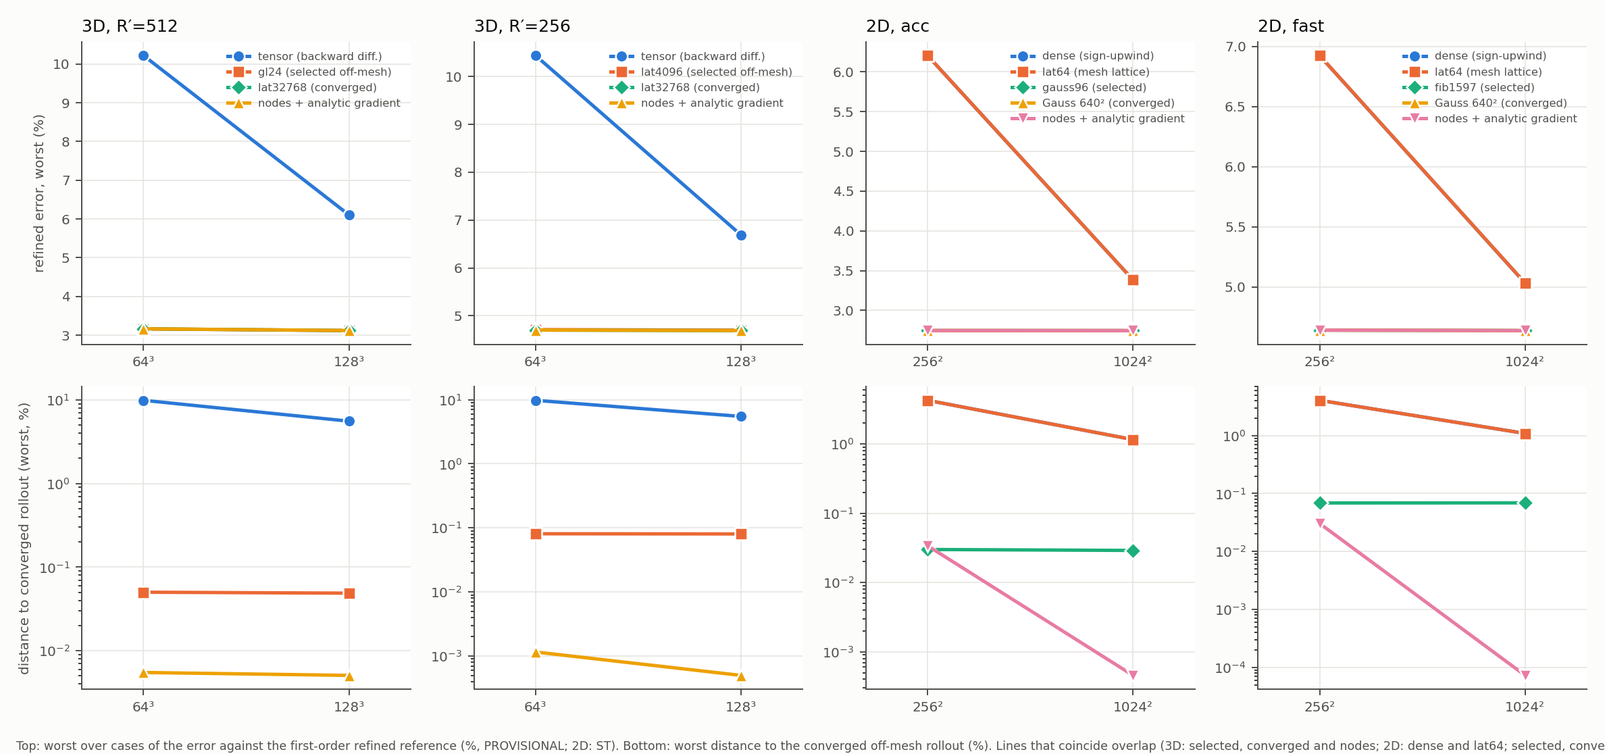
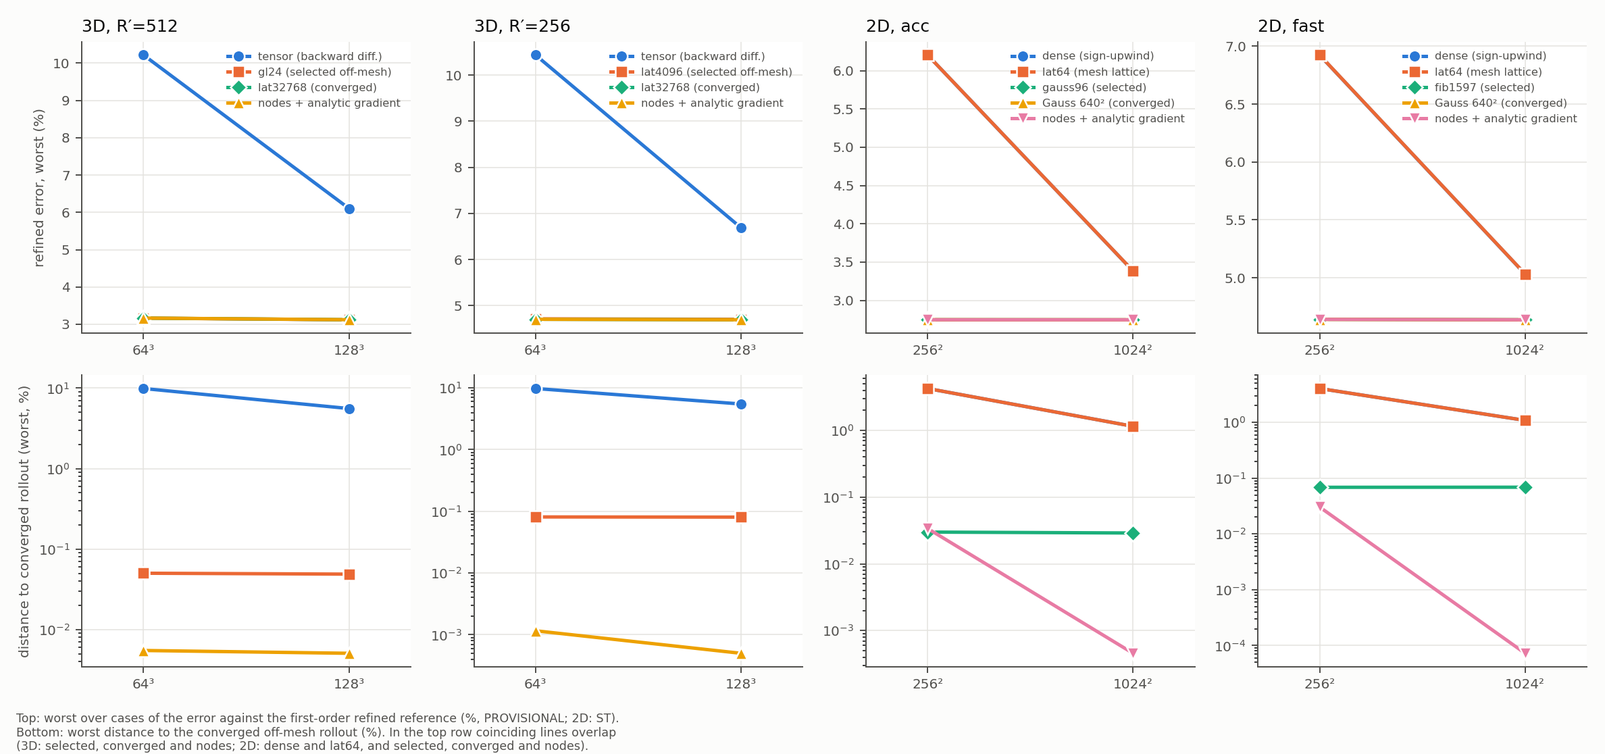
mirror of cce2cce5b: jcp-mechanism: report/plot audit fixes (S provisional, LaTeX, glossary, captions, scope sentences)

diff --git a/experiments/jcp-mechanism/make_report.py b/experiments/jcp-mechanism/make_report.py
@@ -162,9 +162,10 @@ def a2_plot(a2):
         style(ax)
         ax.legend(fontsize=7, frameon=False, labelcolor=INK2, loc='lower left')
     np.atleast_1d(axs)[0].set_ylabel('gap to continuum target (median over states)', color=INK2, fontsize=9)
-    fig.text(0.01, 0.005, 'Bands: 10th–90th percentile over the fixed states. Dashed: manufactured control state.',
-             color=INK2, fontsize=7)
-    fig.tight_layout(rect=(0, 0.03, 1, 1))
+    fig.text(0.01, 0.005, 'Bands: 10th–90th percentile over the fixed states. Dashed: C-pos manufactured state (upwind, central). '
+             'Slopes fitted on the pre-registered window only (the coarsest mesh is excluded); the nodes curve is '
+             'not a fit.', color=INK2, fontsize=7)
+    fig.tight_layout(rect=(0, 0.05, 1, 1))
     PLOTS.mkdir(exist_ok=True)
     fig.savefig(PLOTS / 'a2_gap_vs_h.png', dpi=180, facecolor='#fcfcfb')
     plt.close(fig)
@@ -388,11 +389,11 @@ def a1_plot(r3, r2):
                 ax.set_ylabel(yl, color=INK2, fontsize=8)
         axs[0, j].set_title(t1, color=INK, fontsize=10, loc='left')
         axs[0, j].legend(fontsize=6.5, frameon=False, labelcolor=INK2)
-    fig.text(0.01, 0.005, 'Top: worst over cases of the error against the first-order refined reference (%, PROVISIONAL; 2D: ST). '
-             'Bottom: worst distance to the converged off-mesh rollout (%). Lines that coincide overlap '
-             '(3D: selected, converged and nodes; 2D: dense and lat64; selected, converged and nodes).',
+    fig.text(0.01, 0.005, 'Top: worst over cases of the error against the first-order refined reference (%, PROVISIONAL; 2D: ST).\n'
+             'Bottom: worst distance to the converged off-mesh rollout (%). In the top row coinciding lines overlap\n'
+             '(3D: selected, converged and nodes; 2D: dense and lat64, and selected, converged and nodes).',
              color=INK2, fontsize=7)
-    fig.tight_layout(rect=(0, 0.03, 1, 1))
+    fig.tight_layout(rect=(0, 0.06, 1, 1))
     PLOTS.mkdir(exist_ok=True)
     fig.savefig(PLOTS / 'a1_error_vs_mesh.png', dpi=180, facecolor='#fcfcfb')
     plt.close(fig)
@@ -412,8 +413,8 @@ def label_text(l):
             t += f"; provisional (solver): {l['provisional_solver']}"
         t += ')'
     if l.get('worst_separation') is not None:
-        t += (f" (descriptive, not a label: worst separation {pc(l['worst_separation'], 3)}, worst `nodes` distance to the "
-              f"converged rollout {pc(l['worst_nodes_distance'], 3)})") if l['label'] not in ('R', 'N') else ''
+        t += (f" (descriptive, not a label: worst separation {pe(l['worst_separation'])}, worst `nodes` distance to the "
+              f"converged rollout {pe(l['worst_nodes_distance'])})") if l['label'] not in ('R', 'N') else ''
     if l.get('why'):
         t += f" [{l['why']}]"
     if l.get('missing_cases'):
@@ -515,9 +516,9 @@ def main():
       'the mesh nodes but uses the bank\'s analytic gradient (`nodes`), run beside the mesh incumbents and the off-mesh rules; '
       'and **A2**, the consistency gap of first-order upwind and second-order central mesh sums against the continuum '
       'advection as the mesh is refined. **Status: PRELIMINARY** (2026-10-08; validation/development cohorts only; every '
-      'error against a refined reference is **PROVISIONAL** because the references are first-order solutions). Every number '
+      'error against a refined reference is **PROVISIONAL** because the references are first-order solutions). Every reported measured result '
       'is generated by `experiments/jcp-mechanism/make_report.py` from the job outputs; the pre-registration is `DESIGN.md` '
-      '(amendments 1–6). Recovered fractions printed as 1.000 are rounded, not exact. A3 and A4 are deferred (DESIGN §8).')
+      '(amendments 1–6). Recovered fractions printed as 1.000 are rounded, not exact. A3 and A4 are deferred (DESIGN §8). Protocol constants (bars, meshes, cohorts) come from `DESIGN.md`.')
     w('')
     for pn in plot_notes:
         w(f'> {pn}')
@@ -530,6 +531,9 @@ def main():
         w('1. **A1 — does the exact gradient on the mesh nodes reproduce the off-mesh (continuum) solve?** Outcome labels '
           '(DESIGN amendment 2: R = `nodes` recovers the converged off-mesh rollout within the declared margins; '
           'N = it does not; X = intermediate or invalid; X0 = nothing to explain): ' + '; '.join(parts) + '.')
+        w('   Scope: an R label supports only the sufficiency statement that the mesh nodes with the analytic gradient reach '
+          'the converged off-mesh rollout within the declared margins, so off-mesh point placement is not needed for the '
+          'accuracy observed; it does not show that point placement or the training data play no role elsewhere.')
     else:
         w('1. **A1:** no job output yet.')
     if a2:
@@ -548,7 +552,8 @@ def main():
               f"{p['dim']} {p['group']} {e(p['stencils']['nodes']['median'][-1])} (central {e(p['stencils']['central']['median'][-1])}, "
               f"upwind {e(p['stencils']['upwind']['median'][-1])})" for p in a2['panels'])
           + '; on the manufactured state, where it is resolved, the `nodes` slope is ' + ', '.join(
-              f"{d} {c['slope_nodes']:.2f}" for d, c in a2['controls'].items()) + ' (not a pre-registered bar).')
+              f"{d} {c['slope_nodes']:.2f}" for d, c in a2['controls'].items()) + ' (not a pre-registered bar). All slopes are finite-window observations on fixed reached states, not established '
+          'asymptotic rates.')
     w('')
     # ---------------------------------------------------------------- A1 3D
     w('## 1. A1 in 3D (Burgers 3D, validation cohort 923801 × 64)')
@@ -635,7 +640,7 @@ def main():
             w(f"**{s}** ($R'$ = {r['setup'][s]['R_prime']}, M = {r['setup'][s]['M']}); $\\rho$ on {rh['states'] if rh else 'n/a'} "
               'lat64-reached states.')
             w('')
-            w('| arm | m | ρ cont. worst (median) | ρ mesh worst | ST worst (median), PROVISIONAL | S worst | '
+            w('| arm | m | ρ cont. worst (median) | ρ mesh worst | ST worst (median), PROVISIONAL | S worst, PROVISIONAL | '
               'dist. converged worst (median) | dist. dense worst | LM its (median) | budget / damping exits |')
             w('|---|---|---|---|---|---|---|---|---|---|')
             for spec in r['config']['arms'][s]:
@@ -775,7 +780,7 @@ GLOSSARY = [
     ('continuum target / mesh target', 'the tested continuum advection by a very fine Gauss rule (3D 80³, 2D 640²) / the '
      'sign-upwind stencil on every mesh node.'),
     ('refined error (PROVISIONAL)', 'evolved-time maximum relative field error against a first-order full-order reference '
-     'on a finer mesh (3D: 513 nodes per axis, on the 63³ lattice x = k/64; 2D: 8192², ST = with a 16× smaller time '
+     'on a finer mesh (3D: 513 nodes per axis, on the $63^3$ lattice $x = k/64$; 2D: $8192^2$, ST = with a 16× smaller time '
      'step, S = same time step), normalised by the initial field.'),
     ('same-grid', 'error against a tightly converged full-order solution on the same mesh.'),
     ('dist. converged / tensor / dense', 'evolved-time maximum field distance between two reduced rollouts of the same case, '
@@ -794,9 +799,26 @@ GLOSSARY = [
     ('R′, M, m', 'number of bank columns in the solve; number of sine test functions; number of quadrature points.'),
     ('fixed states', 'reached coefficient states held fixed while only the mesh changes, so the gap depends on h alone.'),
     ('screened population', 'states whose gap exceeds 100× their own continuum-target check and $10^{-12}$ at every window mesh.'),
-    ('slope (median state)', 'least-squares slope of log(median gap) against log h over the window; 1 = first order, 2 = second.'),
+    ('slope (median state)', 'least-squares slope of $\\log(\\text{median gap})$ against $\\log h$ over the window; 1 = first order, 2 = second.'),
     ('manufactured state / C-pos / C-neg-a', 'a known smooth positive field used as a control: its slopes and its gap '
      'against the predicted leading error term must come out right (C-pos); an injected constant 1 % error must give slope 0 (C-neg-a).'),
+    ('slope (worst state) / median per-state slope', 'the same fit on the largest gap over states / the median of the slopes '
+     'fitted state by state.'),
+    ('bar / consistent', 'the pre-registered interval for the median-state slope (upwind 0.8–1.2, central 1.7–2.3) / whether '
+     'the fitted slope lies in it.'),
+    ('25 % survival', 'a slope is fitted only if at least a quarter of the states pass the screen at every window mesh; '
+     'otherwise it is reported as unresolved.'),
+    ('leading norms / leading-term agreement', 'size of the predicted first error term of each stencil relative to the target, '
+     'and the relative difference between the measured gap and that predicted term at the finest window mesh.'),
+    ('central×1.01', 'the central stencil multiplied by 1.01: a deliberately inconsistent variant shown for comparison.'),
+    ('$n$, $L$, $h$', '3D mesh nodes per axis including walls ($h = 1/(n-1)$); 2D intervals per axis ($h = 1/L$); mesh spacing.'),
+    ('LM its', 'Levenberg–Marquardt iterations summed over the time steps of one query (median over cases).'),
+    ('acc / fast', 'the two 2D linear settings: 384 bank columns with 1536 tests, and 128 columns with 512 tests.'),
+    ('bank / tests', 'the frozen coordinate network whose ordered columns span the reduced solution / the sine functions '
+     'against which the residual is measured.'),
+    ('gates G1–G4', 'implementation checks: analytic derivative vs finite differences (G1); `nodes` blocks equal the mesh '
+     'bank and the discrete sines, and the two ways of applying the tests agree (G2a–c); analytic Jacobian vs automatic '
+     'differentiation (G3); reproduction of the earlier lanes (G4, report-only).'),
     ('validation / dev cohorts', '3D: 64 validation cases (seed 923801) and 24 certification draws; 2D: dev6 and val32.'),
 ]
 

diff --git a/experiments/jcp-mechanism/report.md b/experiments/jcp-mechanism/report.md
@@ -1,11 +1,12 @@
 # Mechanism of the off-mesh gain: mesh nodes with the exact gradient (A1) and the stencil gap (A2)
 
-This report covers the two Group A experiments of the lane `jcp-mechanism`: **A1**, a reduced-solve arm that keeps the mesh nodes but uses the bank's analytic gradient (`nodes`), run beside the mesh incumbents and the off-mesh rules; and **A2**, the consistency gap of first-order upwind and second-order central mesh sums against the continuum advection as the mesh is refined. **Status: PRELIMINARY** (2026-10-08; validation/development cohorts only; every error against a refined reference is **PROVISIONAL** because the references are first-order solutions). Every number is generated by `experiments/jcp-mechanism/make_report.py` from the job outputs; the pre-registration is `DESIGN.md` (amendments 1–6). Recovered fractions printed as 1.000 are rounded, not exact. A3 and A4 are deferred (DESIGN §8).
+This report covers the two Group A experiments of the lane `jcp-mechanism`: **A1**, a reduced-solve arm that keeps the mesh nodes but uses the bank's analytic gradient (`nodes`), run beside the mesh incumbents and the off-mesh rules; and **A2**, the consistency gap of first-order upwind and second-order central mesh sums against the continuum advection as the mesh is refined. **Status: PRELIMINARY** (2026-10-08; validation/development cohorts only; every error against a refined reference is **PROVISIONAL** because the references are first-order solutions). Every reported measured result is generated by `experiments/jcp-mechanism/make_report.py` from the job outputs; the pre-registration is `DESIGN.md` (amendments 1–6). Recovered fractions printed as 1.000 are rounded, not exact. A3 and A4 are deferred (DESIGN §8). Protocol constants (bars, meshes, cohorts) come from `DESIGN.md`.
 
 ## Answers
 
-1. **A1 — does the exact gradient on the mesh nodes reproduce the off-mesh (continuum) solve?** Outcome labels (DESIGN amendment 2: R = `nodes` recovers the converged off-mesh rollout within the declared margins; N = it does not; X = intermediate or invalid; X0 = nothing to explain): 3D 64³ R′=256: **R** (median recovered fraction 1.000, bootstrap bound 1.000, median separation 3.53 %); 3D 64³ R′=512: **R** (median recovered fraction 1.000, bootstrap bound 1.000, median separation 3.53 %); 3D 128³ R′=256: **R** (median recovered fraction 1.000, bootstrap bound 1.000, median separation 1.85 %; provisional (solver): no sensitivity rerun at this mesh); 3D 128³ R′=512: **R** (median recovered fraction 1.000, bootstrap bound 1.000, median separation 1.85 %; provisional (solver): no sensitivity rerun at this mesh); 2D 256² acc: **X0** (descriptive, not a label: worst separation 4.258 %, worst `nodes` distance to the converged rollout 0.034 %) [median separation below 1e-2]; 2D 256² fast: **X0** (descriptive, not a label: worst separation 4.053 %, worst `nodes` distance to the converged rollout 0.030 %) [median separation below 1e-2]; 2D 1024² acc: **X0** (descriptive, not a label: worst separation 1.154 %, worst `nodes` distance to the converged rollout 0.000 %) [median separation below 1e-2]; 2D 1024² fast: **X0** (descriptive, not a label: worst separation 1.087 %, worst `nodes` distance to the converged rollout 0.000 %) [median separation below 1e-2].
-2. **A2 — stencil gap slopes** (median-state statistic over the pre-registered window): 3D R512: upwind 0.99, central 2.00, nodes unresolved; 3D R256: upwind 0.99, central 2.00, nodes unresolved; 2D acc: upwind 1.00, central 2.00, nodes unresolved; 2D fast: upwind 1.00, central 2.00, nodes unresolved. Upwind ≈ 1 and central ≈ 2 on every panel: **yes** (controls passed). The `nodes` slope is unresolved by the pre-registered screen because its gap reaches the continuum-target check level; descriptively, at the finest window mesh its median gap is 3D R512 1.5e-08 (central 3.4e-04, upwind 3.5e-02); 3D R256 1.1e-08 (central 3.3e-04, upwind 3.5e-02); 2D acc 1.4e-10 (central 2.0e-06, upwind 2.2e-03); 2D fast 2.2e-10 (central 2.0e-06, upwind 2.2e-03); on the manufactured state, where it is resolved, the `nodes` slope is 3D 4.02, 2D 4.00 (not a pre-registered bar).
+1. **A1 — does the exact gradient on the mesh nodes reproduce the off-mesh (continuum) solve?** Outcome labels (DESIGN amendment 2: R = `nodes` recovers the converged off-mesh rollout within the declared margins; N = it does not; X = intermediate or invalid; X0 = nothing to explain): 3D 64³ R′=256: **R** (median recovered fraction 1.000, bootstrap bound 1.000, median separation 3.53 %); 3D 64³ R′=512: **R** (median recovered fraction 1.000, bootstrap bound 1.000, median separation 3.53 %); 3D 128³ R′=256: **R** (median recovered fraction 1.000, bootstrap bound 1.000, median separation 1.85 %; provisional (solver): no sensitivity rerun at this mesh); 3D 128³ R′=512: **R** (median recovered fraction 1.000, bootstrap bound 1.000, median separation 1.85 %; provisional (solver): no sensitivity rerun at this mesh); 2D 256² acc: **X0** (descriptive, not a label: worst separation 4.26e+00 %, worst `nodes` distance to the converged rollout 3.39e-02 %) [median separation below 1e-2]; 2D 256² fast: **X0** (descriptive, not a label: worst separation 4.05e+00 %, worst `nodes` distance to the converged rollout 3.04e-02 %) [median separation below 1e-2]; 2D 1024² acc: **X0** (descriptive, not a label: worst separation 1.15e+00 %, worst `nodes` distance to the converged rollout 4.56e-04 %) [median separation below 1e-2]; 2D 1024² fast: **X0** (descriptive, not a label: worst separation 1.09e+00 %, worst `nodes` distance to the converged rollout 7.27e-05 %) [median separation below 1e-2].
+   Scope: an R label supports only the sufficiency statement that the mesh nodes with the analytic gradient reach the converged off-mesh rollout within the declared margins, so off-mesh point placement is not needed for the accuracy observed; it does not show that point placement or the training data play no role elsewhere.
+2. **A2 — stencil gap slopes** (median-state statistic over the pre-registered window): 3D R512: upwind 0.99, central 2.00, nodes unresolved; 3D R256: upwind 0.99, central 2.00, nodes unresolved; 2D acc: upwind 1.00, central 2.00, nodes unresolved; 2D fast: upwind 1.00, central 2.00, nodes unresolved. Upwind ≈ 1 and central ≈ 2 on every panel: **yes** (controls passed). The `nodes` slope is unresolved by the pre-registered screen because its gap reaches the continuum-target check level; descriptively, at the finest window mesh its median gap is 3D R512 1.5e-08 (central 3.4e-04, upwind 3.5e-02); 3D R256 1.1e-08 (central 3.3e-04, upwind 3.5e-02); 2D acc 1.4e-10 (central 2.0e-06, upwind 2.2e-03); 2D fast 2.2e-10 (central 2.0e-06, upwind 2.2e-03); on the manufactured state, where it is resolved, the `nodes` slope is 3D 4.02, 2D 4.00 (not a pre-registered bar). All slopes are finite-window observations on fixed reached states, not established asymptotic rates.
 
 ## 1. A1 in 3D (Burgers 3D, validation cohort 923801 × 64)
 
@@ -98,7 +99,7 @@ Nodes gates: nodes_acc: G1_fd_err_h1e-5 2.7e-06, G1_fd_err_h1e-6 2.7e-08, G1_fd_
 
 **acc** ($R'$ = 384, M = 1536); $\rho$ on 1900 lat64-reached states.
 
-| arm | m | ρ cont. worst (median) | ρ mesh worst | ST worst (median), PROVISIONAL | S worst | dist. converged worst (median) | dist. dense worst | LM its (median) | budget / damping exits |
+| arm | m | ρ cont. worst (median) | ρ mesh worst | ST worst (median), PROVISIONAL | S worst, PROVISIONAL | dist. converged worst (median) | dist. dense worst | LM its (median) | budget / damping exits |
 |---|---|---|---|---|---|---|---|---|---|
 | `dense` | 65025 | 1.2e-01 (3.3e-02) | 0.0e+00 | 6.21 % (1.25 %) | 4.16 % | 4.26e+00 % (8.83e-01 %) | – | 54 | 0 / 0 |
 | `lat64` | 3969 | 1.4e-01 (3.3e-02) | 8.6e-02 | 6.21 % (1.25 %) | 4.16 % | 4.26e+00 % (8.83e-01 %) | 0.133 % | 54 | 0 / 0 |
@@ -110,7 +111,7 @@ $\rho$ on 400 `nodes`-reached states (first 8 cases; check 3.3e-08): `dense` 8.3
 
 **fast** ($R'$ = 128, M = 512); $\rho$ on 1900 lat64-reached states.
 
-| arm | m | ρ cont. worst (median) | ρ mesh worst | ST worst (median), PROVISIONAL | S worst | dist. converged worst (median) | dist. dense worst | LM its (median) | budget / damping exits |
+| arm | m | ρ cont. worst (median) | ρ mesh worst | ST worst (median), PROVISIONAL | S worst, PROVISIONAL | dist. converged worst (median) | dist. dense worst | LM its (median) | budget / damping exits |
 |---|---|---|---|---|---|---|---|---|---|
 | `dense` | 65025 | 1.2e-01 (3.3e-02) | 0.0e+00 | 6.92 % (1.29 %) | 4.97 % | 4.05e+00 % (8.83e-01 %) | – | 51 | 0 / 0 |
 | `lat64` | 3969 | 1.3e-01 (3.3e-02) | 9.0e-02 | 6.92 % (1.29 %) | 4.97 % | 4.05e+00 % (8.83e-01 %) | 0.117 % | 51 | 0 / 0 |
@@ -126,7 +127,7 @@ Nodes gates: nodes_acc: G1_fd_err_h1e-5 9.5e-05, G1_fd_err_h1e-6 9.5e-07, G1_fd_
 
 **acc** ($R'$ = 384, M = 1536); $\rho$ on 1900 lat64-reached states.
 
-| arm | m | ρ cont. worst (median) | ρ mesh worst | ST worst (median), PROVISIONAL | S worst | dist. converged worst (median) | dist. dense worst | LM its (median) | budget / damping exits |
+| arm | m | ρ cont. worst (median) | ρ mesh worst | ST worst (median), PROVISIONAL | S worst, PROVISIONAL | dist. converged worst (median) | dist. dense worst | LM its (median) | budget / damping exits |
 |---|---|---|---|---|---|---|---|---|---|
 | `dense` | 1046529 | 3.5e-02 (8.3e-03) | 0.0e+00 | 3.38 % (0.98 %) | 1.34 % | 1.15e+00 % (2.25e-01 %) | – | 55 | 0 / 0 |
 | `lat64` | 3969 | 7.1e-02 (8.3e-03) | 5.4e-02 | 3.38 % (0.98 %) | 1.35 % | 1.15e+00 % (2.25e-01 %) | 0.262 % | 54 | 0 / 0 |
@@ -138,7 +139,7 @@ $\rho$ on 400 `nodes`-reached states (first 8 cases; check 4.1e-08): `dense` 1.8
 
 **fast** ($R'$ = 128, M = 512); $\rho$ on 1900 lat64-reached states.
 
-| arm | m | ρ cont. worst (median) | ρ mesh worst | ST worst (median), PROVISIONAL | S worst | dist. converged worst (median) | dist. dense worst | LM its (median) | budget / damping exits |
+| arm | m | ρ cont. worst (median) | ρ mesh worst | ST worst (median), PROVISIONAL | S worst, PROVISIONAL | dist. converged worst (median) | dist. dense worst | LM its (median) | budget / damping exits |
 |---|---|---|---|---|---|---|---|---|---|
 | `dense` | 1046529 | 3.4e-02 (8.3e-03) | 0.0e+00 | 5.03 % (1.04 %) | 3.48 % | 1.09e+00 % (2.25e-01 %) | – | 51 | 0 / 0 |
 | `lat64` | 3969 | 4.9e-02 (8.3e-03) | 4.6e-02 | 5.03 % (1.04 %) | 3.48 % | 1.09e+00 % (2.25e-01 %) | 0.132 % | 51 | 0 / 0 |
@@ -236,7 +237,7 @@ Own-mesh states (context, not fitted), median gap upwind / central / nodes: 256:
 - **upwind / central**: first-order sign-upwind differences (the full-order model's) and second-order central differences.
 - **ρ**: relative error of a rule's tested advection vector against a target on a given state.
 - **continuum target / mesh target**: the tested continuum advection by a very fine Gauss rule (3D 80³, 2D 640²) / the sign-upwind stencil on every mesh node.
-- **refined error (PROVISIONAL)**: evolved-time maximum relative field error against a first-order full-order reference on a finer mesh (3D: 513 nodes per axis, on the 63³ lattice x = k/64; 2D: 8192², ST = with a 16× smaller time step, S = same time step), normalised by the initial field.
+- **refined error (PROVISIONAL)**: evolved-time maximum relative field error against a first-order full-order reference on a finer mesh (3D: 513 nodes per axis, on the $63^3$ lattice $x = k/64$; 2D: $8192^2$, ST = with a 16× smaller time step, S = same time step), normalised by the initial field.
 - **same-grid**: error against a tightly converged full-order solution on the same mesh.
 - **dist. converged / tensor / dense**: evolved-time maximum field distance between two reduced rollouts of the same case, normalised by the initial field (3D on the 63³ lattice; 2D on the 257² shared nodes).
 - **separation $s_j$**: the per-case distance between the mesh incumbent and the converged off-mesh rollout: the effect to explain.
@@ -248,6 +249,16 @@ Own-mesh states (context, not fitted), median gap upwind / central / nodes: 256:
 - **R′, M, m**: number of bank columns in the solve; number of sine test functions; number of quadrature points.
 - **fixed states**: reached coefficient states held fixed while only the mesh changes, so the gap depends on h alone.
 - **screened population**: states whose gap exceeds 100× their own continuum-target check and $10^{-12}$ at every window mesh.
-- **slope (median state)**: least-squares slope of log(median gap) against log h over the window; 1 = first order, 2 = second.
+- **slope (median state)**: least-squares slope of $\log(\text{median gap})$ against $\log h$ over the window; 1 = first order, 2 = second.
 - **manufactured state / C-pos / C-neg-a**: a known smooth positive field used as a control: its slopes and its gap against the predicted leading error term must come out right (C-pos); an injected constant 1 % error must give slope 0 (C-neg-a).
+- **slope (worst state) / median per-state slope**: the same fit on the largest gap over states / the median of the slopes fitted state by state.
+- **bar / consistent**: the pre-registered interval for the median-state slope (upwind 0.8–1.2, central 1.7–2.3) / whether the fitted slope lies in it.
+- **25 % survival**: a slope is fitted only if at least a quarter of the states pass the screen at every window mesh; otherwise it is reported as unresolved.
+- **leading norms / leading-term agreement**: size of the predicted first error term of each stencil relative to the target, and the relative difference between the measured gap and that predicted term at the finest window mesh.
+- **central×1.01**: the central stencil multiplied by 1.01: a deliberately inconsistent variant shown for comparison.
+- **$n$, $L$, $h$**: 3D mesh nodes per axis including walls ($h = 1/(n-1)$); 2D intervals per axis ($h = 1/L$); mesh spacing.
+- **LM its**: Levenberg–Marquardt iterations summed over the time steps of one query (median over cases).
+- **acc / fast**: the two 2D linear settings: 384 bank columns with 1536 tests, and 128 columns with 512 tests.
+- **bank / tests**: the frozen coordinate network whose ordered columns span the reduced solution / the sine functions against which the residual is measured.
+- **gates G1–G4**: implementation checks: analytic derivative vs finite differences (G1); `nodes` blocks equal the mesh bank and the discrete sines, and the two ways of applying the tests agree (G2a–c); analytic Jacobian vs automatic differentiation (G3); reproduction of the earlier lanes (G4, report-only).
 - **validation / dev cohorts**: 3D: 64 validation cases (seed 923801) and 24 certification draws; 2D: dev6 and val32.

diff --git a/experiments/jcp-mechanism/audits/codex-results-a2q-and-report-1.md b/experiments/jcp-mechanism/audits/codex-results-a2q-and-report-1.md
@@ -1,0 +1,119 @@
+**A2’s numerical conclusions are CORRECT. The report and plots still have presentation and completeness defects.** No files were modified; no GPU was used.
+
+I independently recomputed A2 statistics with NumPy, without calling `make_report.py`. I also independently reconstructed the manufactured field, derivatives, quadrature, and stencil sums using separable NumPy formulas.
+
+**I. A2 raw results**
+
+**CORRECT — provenance and execution.** All three output checksums pass. Job 5016189’s log records `jax_backend=gpu`, `x64=True`, `precision=highest`, `A2 COMPLETE`, and `ALL-DONE`; stderr is empty.
+
+**CORRECT — median/worst gaps.** Every reported fixed-population gap matches the independent calculation at the report’s displayed precision. Below, entries are **median / worst**, not percentages.
+
+| Panel | Mesh | Upwind | Central | Nodes |
+|---|---:|---:|---:|---:|
+| 3D R512 | 33 | 2.690970e-1 / 3.884671e-1 | 2.121991e-2 / 4.990729e-2 | 6.700782e-5 / 2.396023e-3 |
+| | 65 | 1.370844e-1 / 1.964743e-1 | 5.370796e-3 / 1.292915e-2 | 3.973189e-6 / 1.243571e-4 |
+| | 129 | 6.908315e-2 / 9.855850e-2 | 1.346896e-3 / 3.261909e-3 | 2.446787e-7 / 7.474548e-6 |
+| | 257 | 3.460639e-2 / 4.932903e-2 | 3.369878e-4 / 8.173485e-4 | 1.522969e-8 / 4.626017e-7 |
+| 3D R256 | 33 | 2.695685e-1 / 3.858236e-1 | 2.102450e-2 / 4.693416e-2 | 4.944481e-5 / 1.258326e-3 |
+| | 65 | 1.371680e-1 / 1.950733e-1 | 5.317462e-3 / 1.202365e-2 | 2.986439e-6 / 6.793769e-5 |
+| | 129 | 6.909621e-2 / 9.784384e-2 | 1.333260e-3 / 3.024567e-3 | 1.837011e-7 / 4.113212e-6 |
+| | 257 | 3.467550e-2 / 4.896892e-2 | 3.335594e-4 / 7.573155e-4 | 1.143659e-8 / 2.551001e-7 |
+| 2D acc | 128 | 6.845449e-2 / 2.007988e-1 | 2.040903e-3 / 5.750527e-2 | 3.493570e-4 / 6.853418e-2 |
+| | 256 | 3.436822e-2 / 8.611544e-2 | 5.116909e-4 / 1.881418e-2 | 1.039465e-4 / 1.344273e-2 |
+| | 512 | 1.721518e-2 / 3.763116e-2 | 1.279537e-4 / 4.903392e-3 | 9.607914e-6 / 9.657944e-4 |
+| | 1024 | 8.616216e-3 / 1.757502e-2 | 3.199224e-5 / 1.247078e-3 | 2.489808e-7 / 2.791759e-5 |
+| | 2048 | 4.310314e-3 / 8.498799e-3 | 7.998847e-6 / 3.133646e-4 | 1.884922e-9 / 7.390157e-7 |
+| | 4096 | 2.155704e-3 / 4.180276e-3 | 1.999769e-6 / 7.844173e-5 | 1.359030e-10 / 5.997564e-8 |
+| 2D fast | 128 | 6.859430e-2 / 1.586607e-1 | 2.047450e-3 / 4.880941e-2 | 2.934445e-4 / 7.710910e-2 |
+| | 256 | 3.439319e-2 / 6.812501e-2 | 5.127139e-4 / 1.554099e-2 | 1.155827e-4 / 1.625572e-2 |
+| | 512 | 1.722537e-2 / 3.032054e-2 | 1.281489e-4 / 3.950128e-3 | 6.969251e-6 / 1.363209e-3 |
+| | 1024 | 8.618444e-3 / 1.477770e-2 | 3.203923e-5 / 1.005401e-3 | 2.111524e-7 / 4.400716e-5 |
+| | 2048 | 4.311147e-3 / 7.389585e-3 | 8.010025e-6 / 2.525700e-4 | 2.284713e-9 / 4.089334e-7 |
+| | 4096 | 2.156050e-3 / 3.694958e-3 | 2.002520e-6 / 6.321646e-5 | 2.215647e-10 / 4.305362e-8 |
+
+The separately reported own-mesh median gaps also match; those populations are correctly excluded from the slope fits.
+
+**CORRECT — screening and survival.** I applied both strict inequalities, separately for every state at every window mesh:
+
+\[
+g(h;c)>100\rho_{\mathrm{check}}(c),\qquad g(h;c)>10^{-12}.
+\]
+
+| Panel | Upwind survivors | Central survivors | Nodes survivors | Nodes verdict |
+|---|---:|---:|---:|---|
+| 3D R512 | 200/200 | 200/200 | 6/200 = 3% | Unresolved |
+| 3D R256 | 200/200 | 200/200 | 10/200 = 5% | Unresolved |
+| 2D acc | 300/300 | 300/300 | 1/300 = 0.333% | Unresolved |
+| 2D fast | 300/300 | 300/300 | 1/300 = 0.333% | Unresolved |
+
+Nodes survivors at successive window meshes are respectively `[188,114,6]`, `[191,150,10]`, `[300,300,300,64,1]`, and `[300,300,300,62,1]`. Every nodes population fails the 25% requirement.
+
+**CORRECT — all three slope statistics and bars.** Fits use precisely the requested windows and spacings.
+
+| Panel | Stencil | Slope of median gap | Slope of maximum gap | Median per-state slope | Registered bar |
+|---|---|---:|---:|---:|---|
+| 3D R512 | Upwind | 0.992977 | 0.996916 | 0.994234 | Pass [0.8,1.2] |
+| | Central | 1.997184 | 1.991766 | 1.997281 | Pass [1.7,2.3] |
+| 3D R256 | Upwind | 0.991978 | 0.997039 | 0.994276 | Pass |
+| | Central | 1.997361 | 1.994418 | 1.997474 | Pass |
+| 2D acc | Upwind | 0.998750 | 1.087580 | 0.999211 | Pass |
+| | Central | 1.999828 | 1.977983 | 1.999765 | Pass |
+| 2D fast | Upwind | 0.998971 | 1.044584 | 0.999213 | Pass |
+| | Central | 2.000026 | 1.985027 | 1.999822 | Pass |
+
+The bars apply to the slope of the median gap. No registered nodes bar exists.
+
+**CORRECT — independent-family check on every state set.** All maxima are below \(10^{-2}\).
+
+| Panel | Fixed | Own coarse | Own middle | Own fine |
+|---|---:|---:|---:|---:|
+| 3D R512 | 4.493581e-4 | 4.821863e-5 | 6.080727e-5 | 6.922684e-5 |
+| 3D R256 | 6.444827e-5 | 2.713024e-5 | 3.370319e-5 | 3.792247e-5 |
+| 2D acc | 2.269628e-5 | 2.591771e-6 | 2.626427e-6 | 3.901162e-6 |
+| 2D fast | 8.192899e-6 | 1.989417e-6 | 2.313586e-6 | 2.376138e-6 |
+
+Own meshes are 65/129/257 in 3D and 256/1024/4096 in 2D. Fixed-population Gauss-check maxima are \(7.268802\times10^{-8}\), \(1.178039\times10^{-8}\), \(4.320803\times10^{-8}\), and \(3.240186\times10^{-8}\).
+
+**CORRECT — manufactured controls actually behave as designed.**
+
+| Quantity | 3D | 2D | Requirement |
+|---|---:|---:|---|
+| Upwind slope | 1.001424 | 1.000165 | Within 0.15 of 1 |
+| Central slope | 1.999010 | 1.999970 | Within 0.15 of 2 |
+| Finest upwind leading-term discrepancy | 0.00576927 | 0.000486799 | ≤0.1 |
+| Finest central leading-term discrepancy | 0.000263949 | 0.00000372256 | ≤0.1 |
+| Relative upwind leading norm | 5.495769 | 5.144444 | ≥0.001 |
+| Relative central leading norm | 8.122000 | 10.257872 | ≥0.001 |
+| C-neg-a gap, every mesh | 0.01 | 0.01 | Constant injected defect |
+| C-neg-a slope | Approximately zero | Approximately zero | Absolute value <0.05 |
+| Central×1.01 slope | −0.058204 | −0.003033 | Descriptive only |
+
+Independent manufactured reconstruction agrees with the stored leading-term discrepancies to absolute differences below \(9.5\times10^{-13}\) in 3D and \(6.1\times10^{-10}\) in 2D. The latter difference concerns a discrepancy already only \(3.7\times10^{-6}\), with no effect on acceptance.
+
+The positive control recovers the expected orders and nonzero leading coefficients. The negative control produces the constant error plateau, rather than a spurious convergent slope. C-neg-a tests normalization and fitting; it does **not** independently validate stencil assembly.
+
+Manufactured nodes slopes are 4.021345 and 4.004397. Additional NumPy Gauss comparisons gave target discrepancies \(8.17\times10^{-15}\) and \(1.26\times10^{-14}\), supporting resolution of these manufactured gaps.
+
+**II. Report and plots**
+
+| Item | Verdict | Finding |
+|---|---|---|
+| Generated numerical results | **CORRECT** | Report sections preceding historical reproducibility reproduce byte-for-byte in memory from the generator and raw inputs, with plotting and writes disabled. The closing glossary also matches its source. Historical numerical entries have computation paths in the generator; I did not independently rerun the historical field reconstruction. No hand-entered measured result was found. |
+| “Every number … from job outputs” | **NEEDS-RESTATEMENT** | Literally too broad: protocol thresholds, dates, reference resolutions, and glossary metadata include source-code literals. Say “Every reported measured result is generated from the outputs; protocol constants come from DESIGN.” |
+| Inline provisional labels | **WRONG** | All four 2D tables label **ST** provisional but leave **S worst** unqualified. S also uses a first-order refined reference. Change the S column heading to “S worst, PROVISIONAL.” See [report.md:101](/home/tahmid/Dev/Tunable-NM-ROM-Claude/worktrees/2026-10-06-jcp-mechanism/experiments/jcp-mechanism/report.md:101). |
+| LaTeX mathematics | **WRONG** | Compliance is incomplete: the glossary contains bare `x = k/64` and `log(median gap)` / `log h`; narrative mathematical notation also uses Unicode superscripts outside math delimiters. The actual displayed gap and recovered-fraction formulas are correctly written in LaTeX. See [report.md:239](/home/tahmid/Dev/Tunable-NM-ROM-Claude/worktrees/2026-10-06-jcp-mechanism/experiments/jcp-mechanism/report.md:239). |
+| Closing plain-language glossary | **WRONG** | Present, but not exhaustive. Missing explanations include the worst-gap slope versus median per-state slope, `bar`/`consistent`, the 25% survival condition, normalized leading norms and leading-term discrepancy, central×1.01, \(n,L,h\), and what “LM its” counts. `acc`/`fast`, bank, tests, and several gate terms also need explanations for a cold reader. |
+| A1 causal scope | **CORRECT** | The answer uses the prescribed “recovers … within the declared margins” wording and does not assert that placement causes the gain. The four R labels support sufficiency only. Explicitly adding that limitation would improve the report. |
+| 2D X0 interpretation | **CORRECT** | Median separations are 0.882898%, 0.882940%, 0.224658%, and 0.224675%, all below 1%. Worst-case separations are explicitly descriptive, not mechanism labels. Bootstrap bounds are N/A. |
+| Rounded zero distances | **NEEDS-RESTATEMENT** | The answer’s 1024² nodes distances print as 0.000%, although they are **0.000455534%** and **0.0000726656%**. Use scientific notation, as the detailed tables already do. |
+| Nodes A2 slope unresolved | **CORRECT** | All four labels follow the screen; the manufactured fourth-order observation is explicitly separate and has no registered acceptance bar. |
+| Finite-window interpretation | **NEEDS-RESTATEMENT** | Add the DESIGN limitation explicitly: these are finite-window observations on fixed reached states, not established asymptotic rates. |
+| Amendments 1–6 | **CORRECT, with reporting omissions** | Current populations, screens, family checks, control thresholds, R/X0 decision order, bootstrap treatment, 128³ solver qualification, and amended 2D derivative convergence check are consistent. However, registered p90 quadrature summaries and per-case mesh spreads are absent; the report is not exhaustive coverage of all registered deliverables. |
+| A1 plot numerical content | **CORRECT** | Curves agree with the report; backward-difference tensor versus sign-upwind dense is correctly distinguished. The caption identifies refined errors as provisional and 2D errors as ST. |
+| A1 plot legibility | **WRONG** | The caption extends beyond the image’s right edge and is clipped. Its overlap explanation is also ambiguous unless restricted to the top row; bottom-row selected and nodes curves are distinct. Wrap the caption. |
+| A2 plot numerical content | **CORRECT** | Plotted medians, percentile bands, slope labels, and manufactured positive-control curves agree with the raw arrays. Nodes legends correctly say unresolved. |
+| A2 plot standalone labeling | **NEEDS-RESTATEMENT** | Mark the fitting window: the displayed coarsest point is excluded. Identify the dashed curves specifically as C-pos upwind/central; negative controls are not plotted. Consider marking unresolved nodes points so the connected curve cannot be mistaken for an accepted slope fit. |
+
+For clarity, the 3D R-label median recovered fractions range from **0.999995265 to 0.999999191**, with bootstrap lower bounds **0.999993829 to 0.999998877**. Printing 1.000 is rounding, as the report correctly discloses.
+
+**Remaining WRONG: missing inline provisional labels on S errors; incomplete LaTeX compliance; incomplete glossary; clipped A1 plot caption.**
